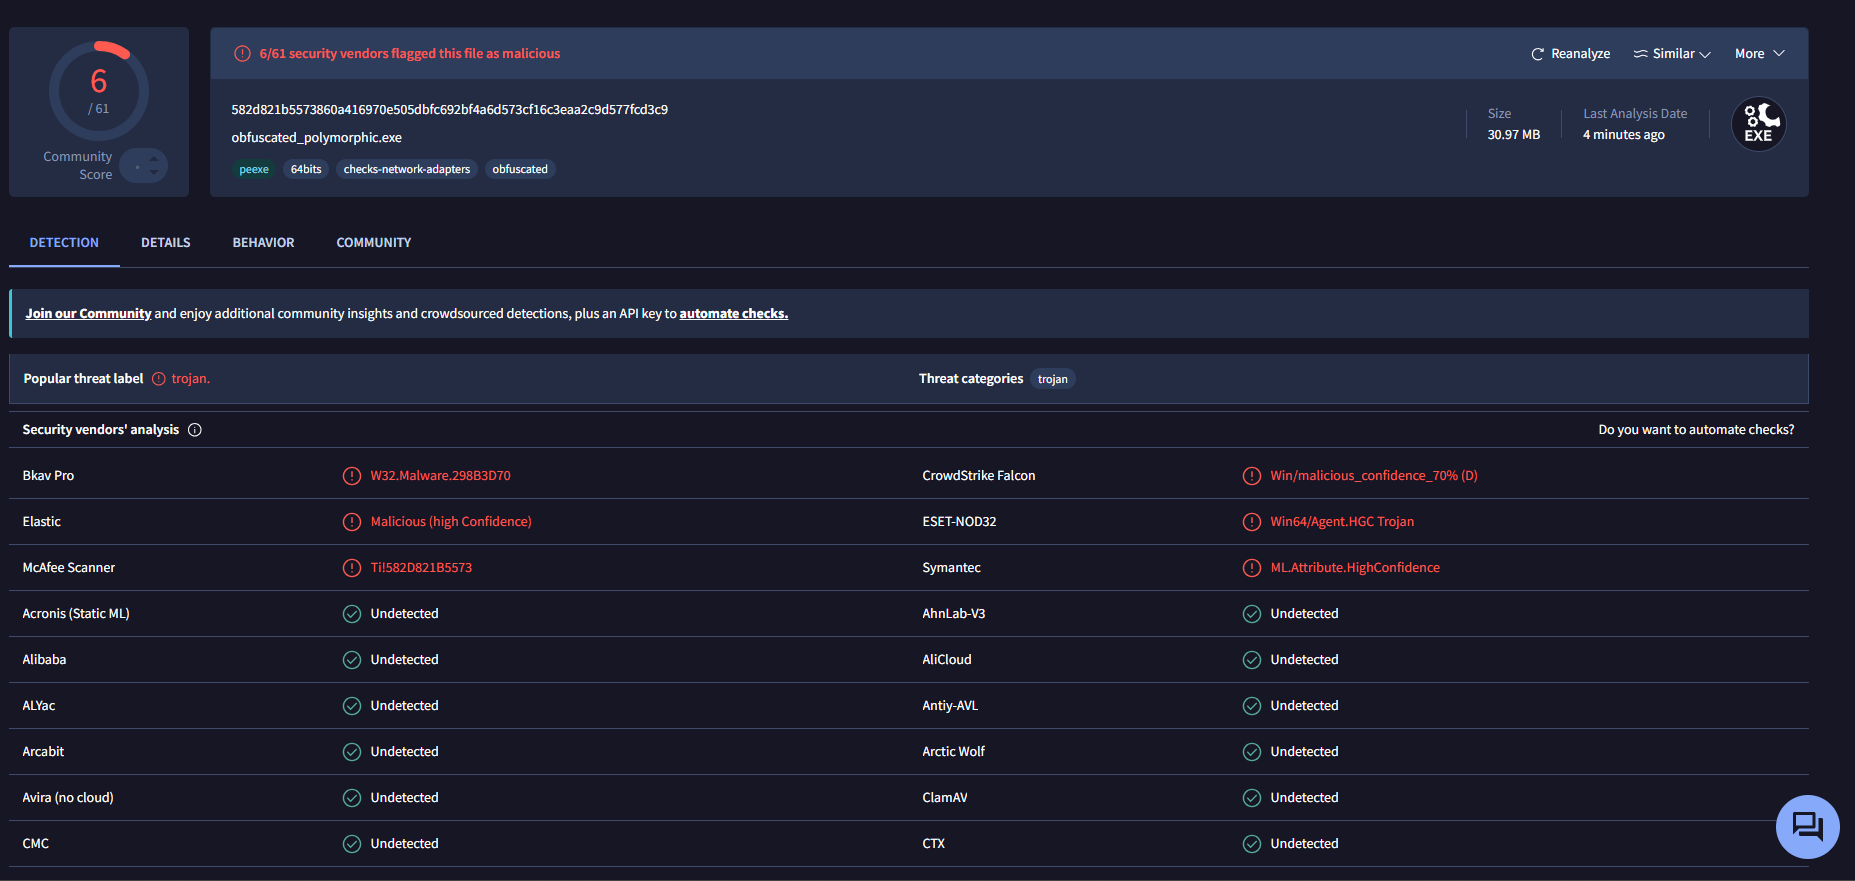
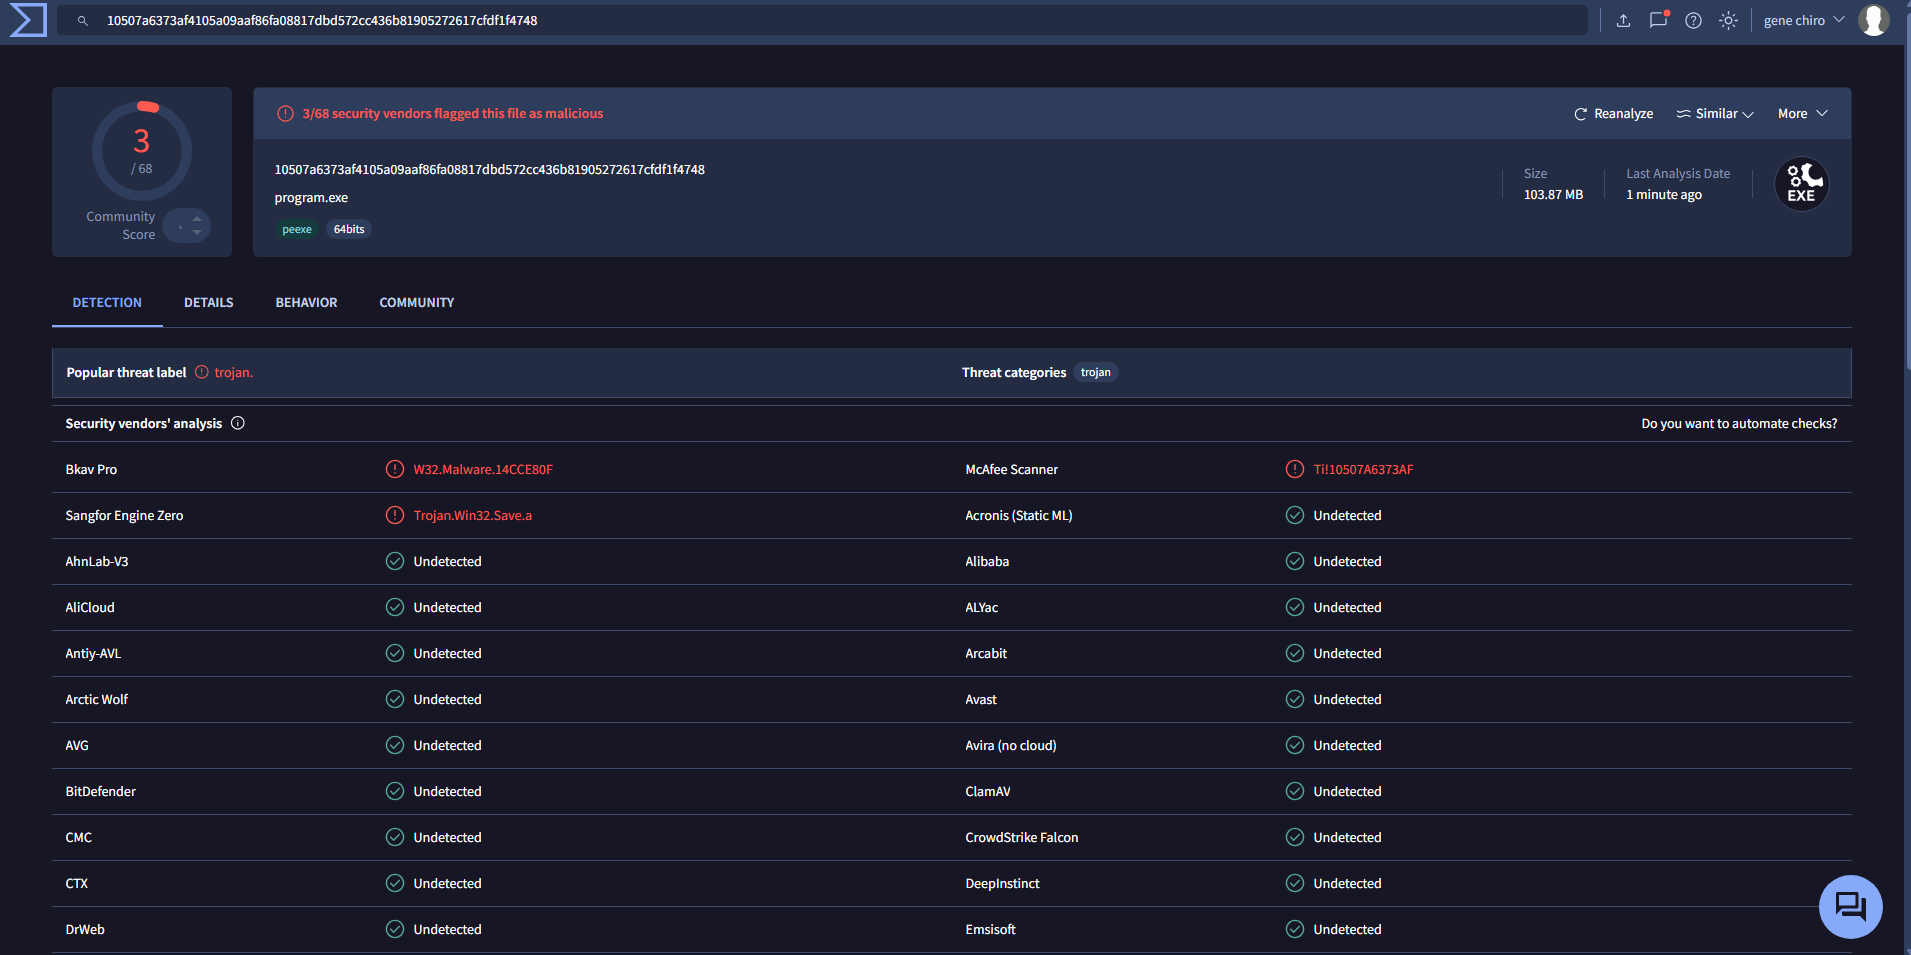
change the old virus scan with the new one

diff --git a/evasion/README.md b/evasion/README.md
@@ -39,7 +39,7 @@ A Rust-based PE crypter that encrypts a Windows x64 executable, embeds it into a
 
 ## Detection Results
 
-The generated binary was scanned on VirusTotal: **6 out of 61 security vendors** flagged it.
+The generated binary was scanned on VirusTotal: **3 out of 68 security vendors** flagged it.
 
 ![VirusTotal scan](resources/virus_total_scan.png)
 
